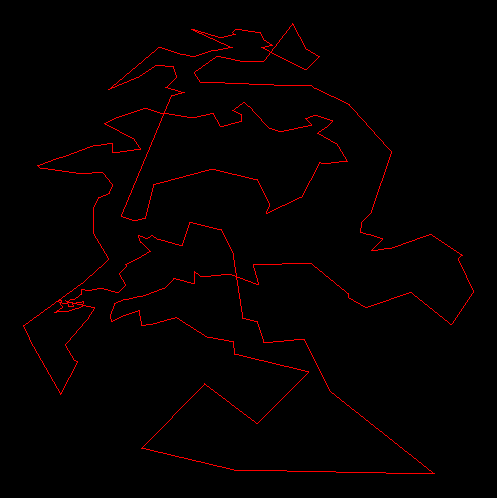
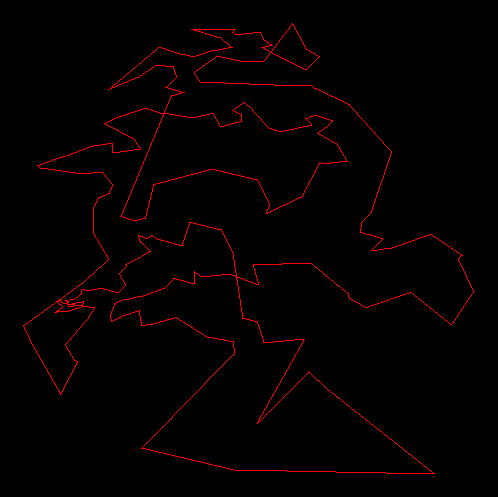
Update of README and image of Qatar

diff --git a/README.md b/README.md
@@ -13,14 +13,14 @@ Some of the chromosomes are initially generated using a greedy algorithm (NN), w
 
 Source: <http://www.math.uwaterloo.ca/tsp/world/qatour.html>
 
-* Best result using GA: 10692.473373001952 (245 generations)
+* Best result using GA: 10661.13794711319 (322 generations)
 * Optimal result: 9352
-* Error: 14.33 %
+* Error: 14.00 %
 
 ![Qatar path using GA](https://raw.githubusercontent.com/nicolopinci/geneticTSP/master/img/qatar.png "Qatar path using GA")
 
 <details>
-  <summary>Show the results</summary>
+  <summary>Show the results (not the one corresponding to the best result reported above)</summary>
 
 ```
 1 generations (distance: 11892.888058614646 and best path: [1, 6, 8, 16, 13, 14, 11, 17, 26, 24, 21, 18, 33, 28, 29, 22, 27, 37, 39, 47, 51, 58, 56, 53, 52, 48, 46, 41, 38, 40, 43, 54, 55, 49, 42, 44, 35, 32, 30, 31, 34, 61, 67, 66, 73, 68, 64, 70, 77, 79, 81, 83, 88, 92, 95, 96, 93, 97, 105, 106, 107, 108, 110, 112, 115, 116, 117, 121, 120, 128, 123, 124, 133, 135, 129, 131, 136, 148, 143, 155, 151, 147, 152, 153, 150, 144, 154, 157, 141, 139, 138, 142, 146, 149, 145, 140, 137, 134, 132, 127, 125, 126, 114, 113, 109, 102, 103, 91, 78, 75, 72, 74, 69, 60, 57, 45, 50, 19, 15, 12, 10, 9, 5, 3, 2, 4, 7, 25, 23, 71, 76, 80, 87, 82, 62, 59, 36, 63, 65, 85, 86, 98, 90, 94, 99, 101, 104, 111, 89, 20, 130, 156, 161, 163, 164, 169, 172, 179, 174, 173, 175, 184, 181, 177, 178, 180, 170, 167, 168, 165, 159, 158, 162, 166, 171, 185, 193, 188, 191, 189, 192, 190, 187, 186, 183, 182, 176, 194, 160, 118, 122, 119, 100, 84])
